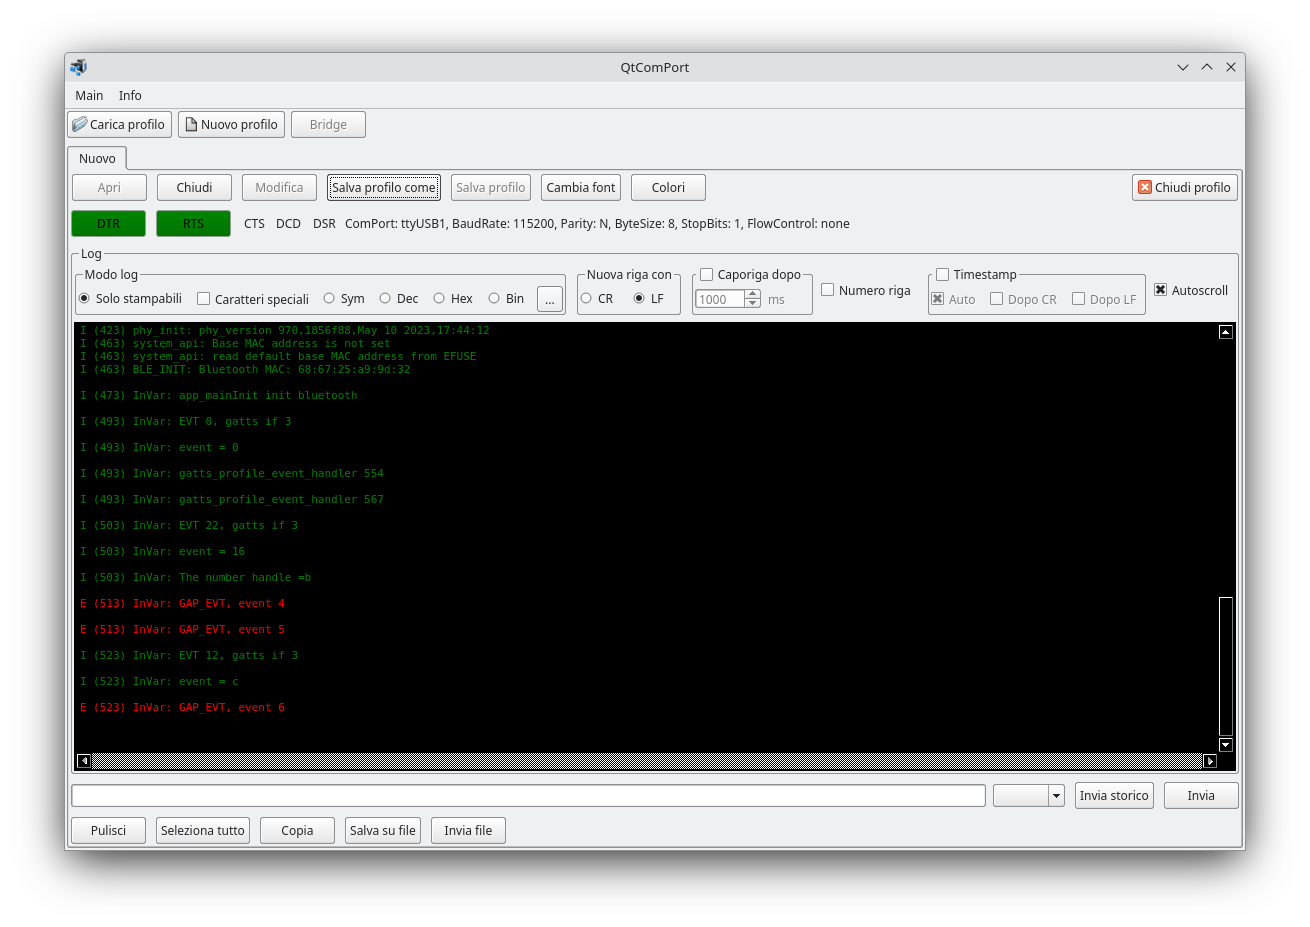
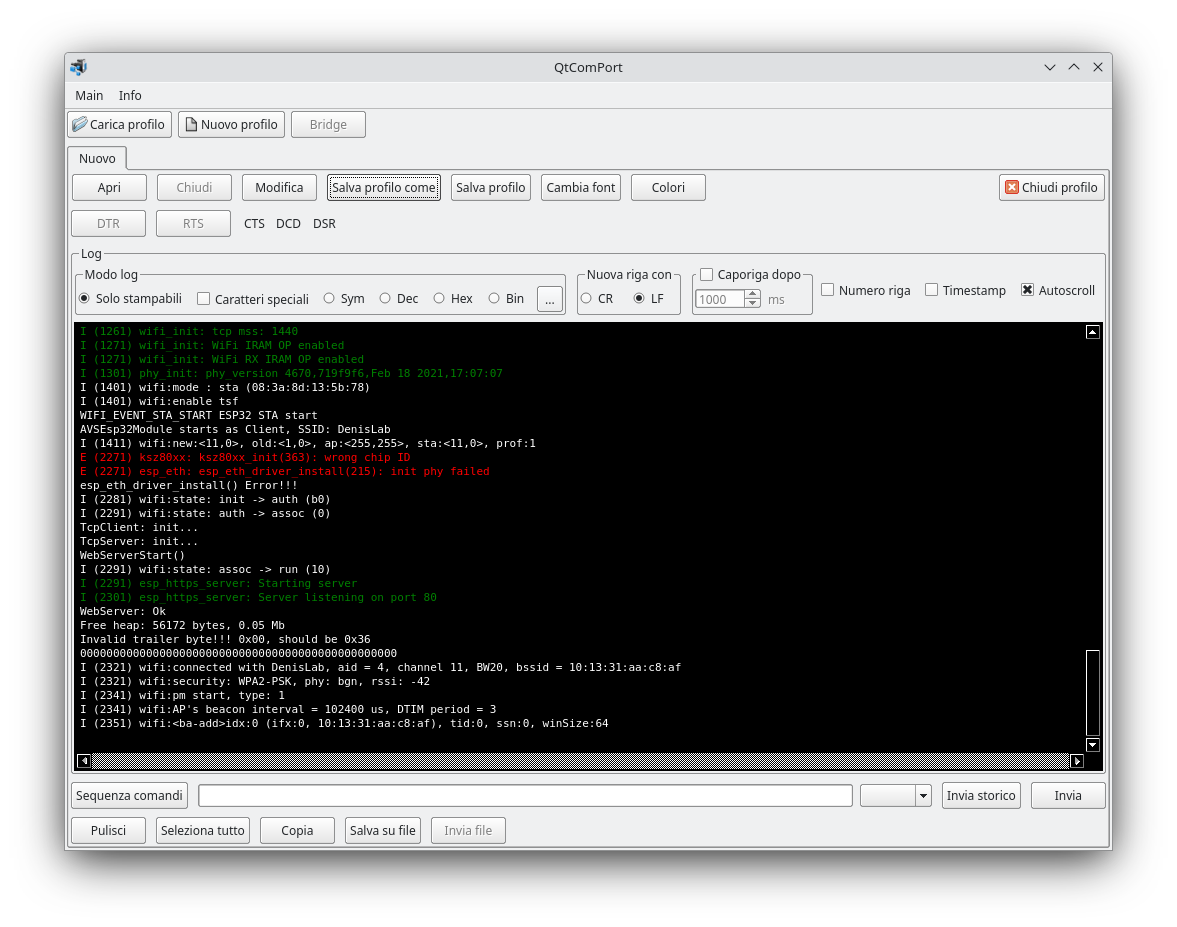
readme.md

diff --git a/README.md b/README.md
@@ -1,4 +1,23 @@
 # QtComPort
 Written in C++ with Qt framework. It is similar to the old Windows HyperTerminal utility. This software permits to manage more com ports and tcp sockets at the same time. You can put in bridge the com ports and the sockets to monitoring what the serial ports are sending and receiving. It is ideal for doing the reverse engineering of serial device protocols.
 
+## Features
+
+Bridge between RS232 and tcp connections
+Bluetooth low energy connections
+RS232 connections
+TCP client connections
+TCP server connections
+Commands list (both hex and text), QtComPort can send in loop commands taken from a list
+TCP SSL connections
+
 ![](QtComPortScreenshot01.png)
+
+## Commands list
+
+How to see in the above image ist is possible to create a list of commands, as text or hex format, to send. It is possible to setup a delay between commands an to send the commands list in a infinite loop.
+
+![](QtComPortScreenshot02.png)
+
+## Download QtComPort for Windows and Mac OSX
+[https://www.denisgottardello.it/QtComPort/](https://www.denisgottardello.it/QtComPort/)
